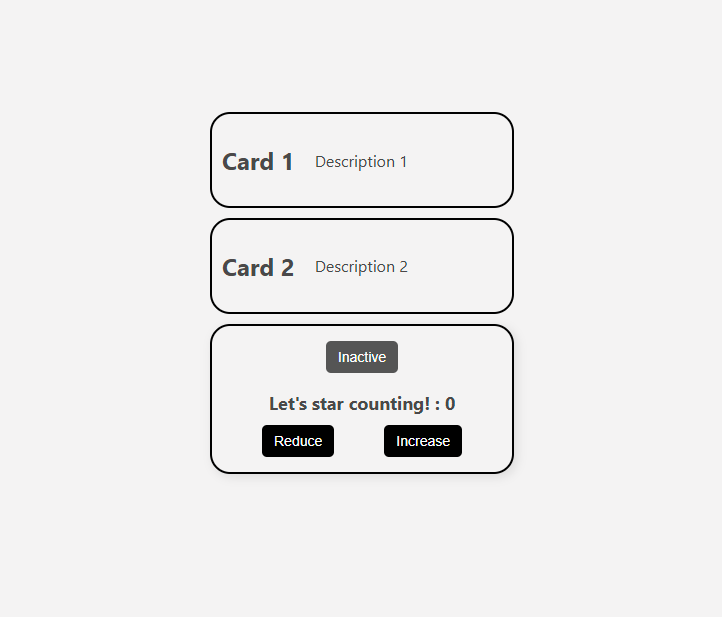
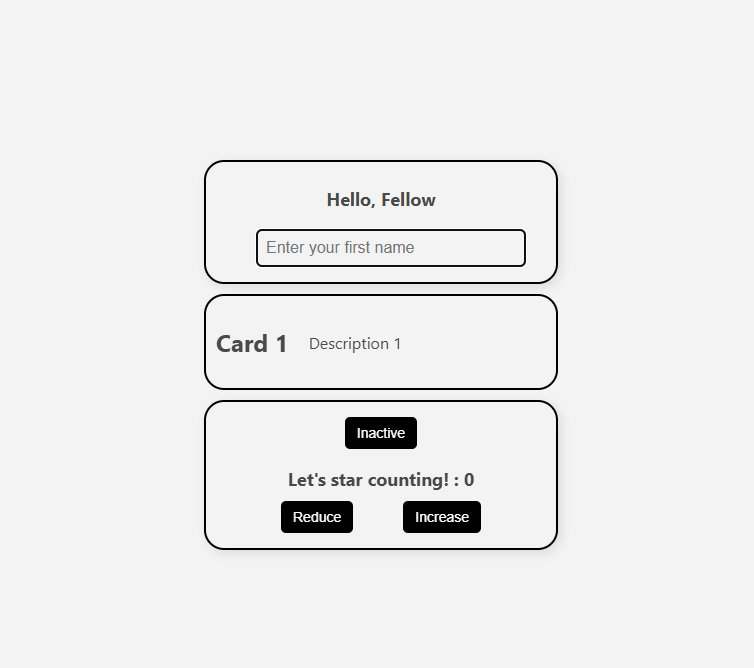
Gestion de Eventos y relacion con el estado

Changed region(s): [[0.2438, 0.1848, 0.7618, 0.8314], [0.3352, 0.154, 0.6704, 0.1848]]

diff --git a/src/components/NameForm.jsx b/src/components/NameForm.jsx
@@ -1,0 +1,21 @@
+import { useState } from "react";
+import "./NameForm.css";
+
+const NameForm = () => {
+    const [name, setName] = useState("");
+
+    return (
+        <div className="name-form-container">
+            <p className="greeting-text">Hello, {name || "Fellow"}</p>
+            <input
+                type="text"
+                className="name-input"
+                placeholder="Enter your first name"
+                value={name}
+                onChange={(event) => setName(event.target.value)}
+            />
+        </div>
+    );
+};
+
+export default NameForm;

diff --git a/src/components/NameForm.css b/src/components/NameForm.css
@@ -1,0 +1,24 @@
+.name-form-container {
+    border: 2px solid black;
+    border-radius: 20px;
+    margin: 10px;
+    padding: 15px 50px;
+    text-align: center;
+    width: 250px;
+    box-shadow: 3px 3px 10px rgba(0, 0, 0, 0.1);
+}
+
+.name-input {
+    width: 100%;
+    padding: 8px;
+    background-color: transparent;
+    border: 2px solid black;
+    border-radius: 5px;
+    font-size: 16px;
+}
+
+.greeting-text {
+    font-size: 18px;
+    font-weight: bold;
+    margin-top: 10px;
+}

diff --git a/src/App.js b/src/App.js
@@ -1,13 +1,14 @@
 import './App.css';
 import Card from './components/Card.jsx'
 import Counter from './components/Counter.jsx'
+import NameForm from './components/NameForm.jsx';
 
 function App() {
 
   return (
     <section>
+      <NameForm />
       <Card title="Card 1" description="Description 1" />
-      <Card title="Card 2" description="Description 2" />
       <Counter />
     </section>
   );

diff --git a/src/components/Counter.css b/src/components/Counter.css
@@ -2,7 +2,7 @@
     border: 2px solid black;
     border-radius: 20px;
     margin: 10px;
-    padding: 15px 50px;
+    padding: 15px 75px;
     text-align: center;
     width: 200px;
     box-shadow: 3px 3px 10px rgba(0, 0, 0, 0.1);
